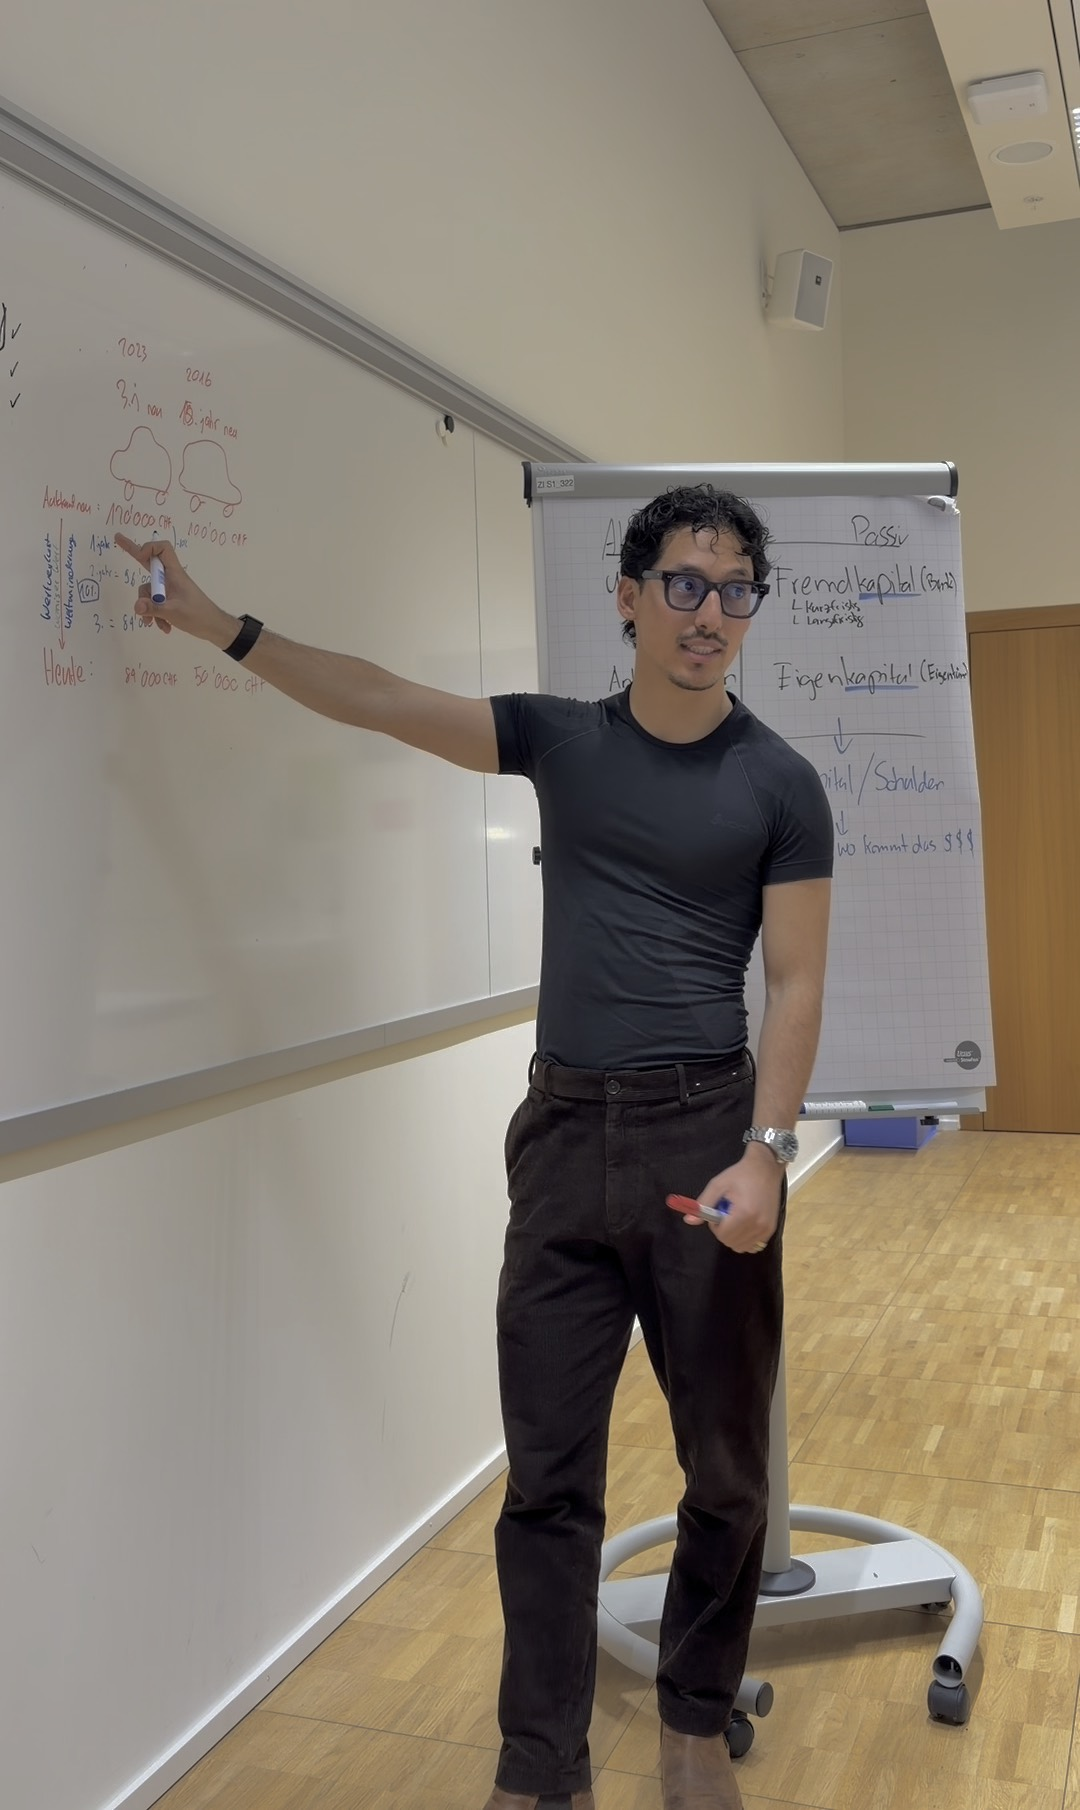
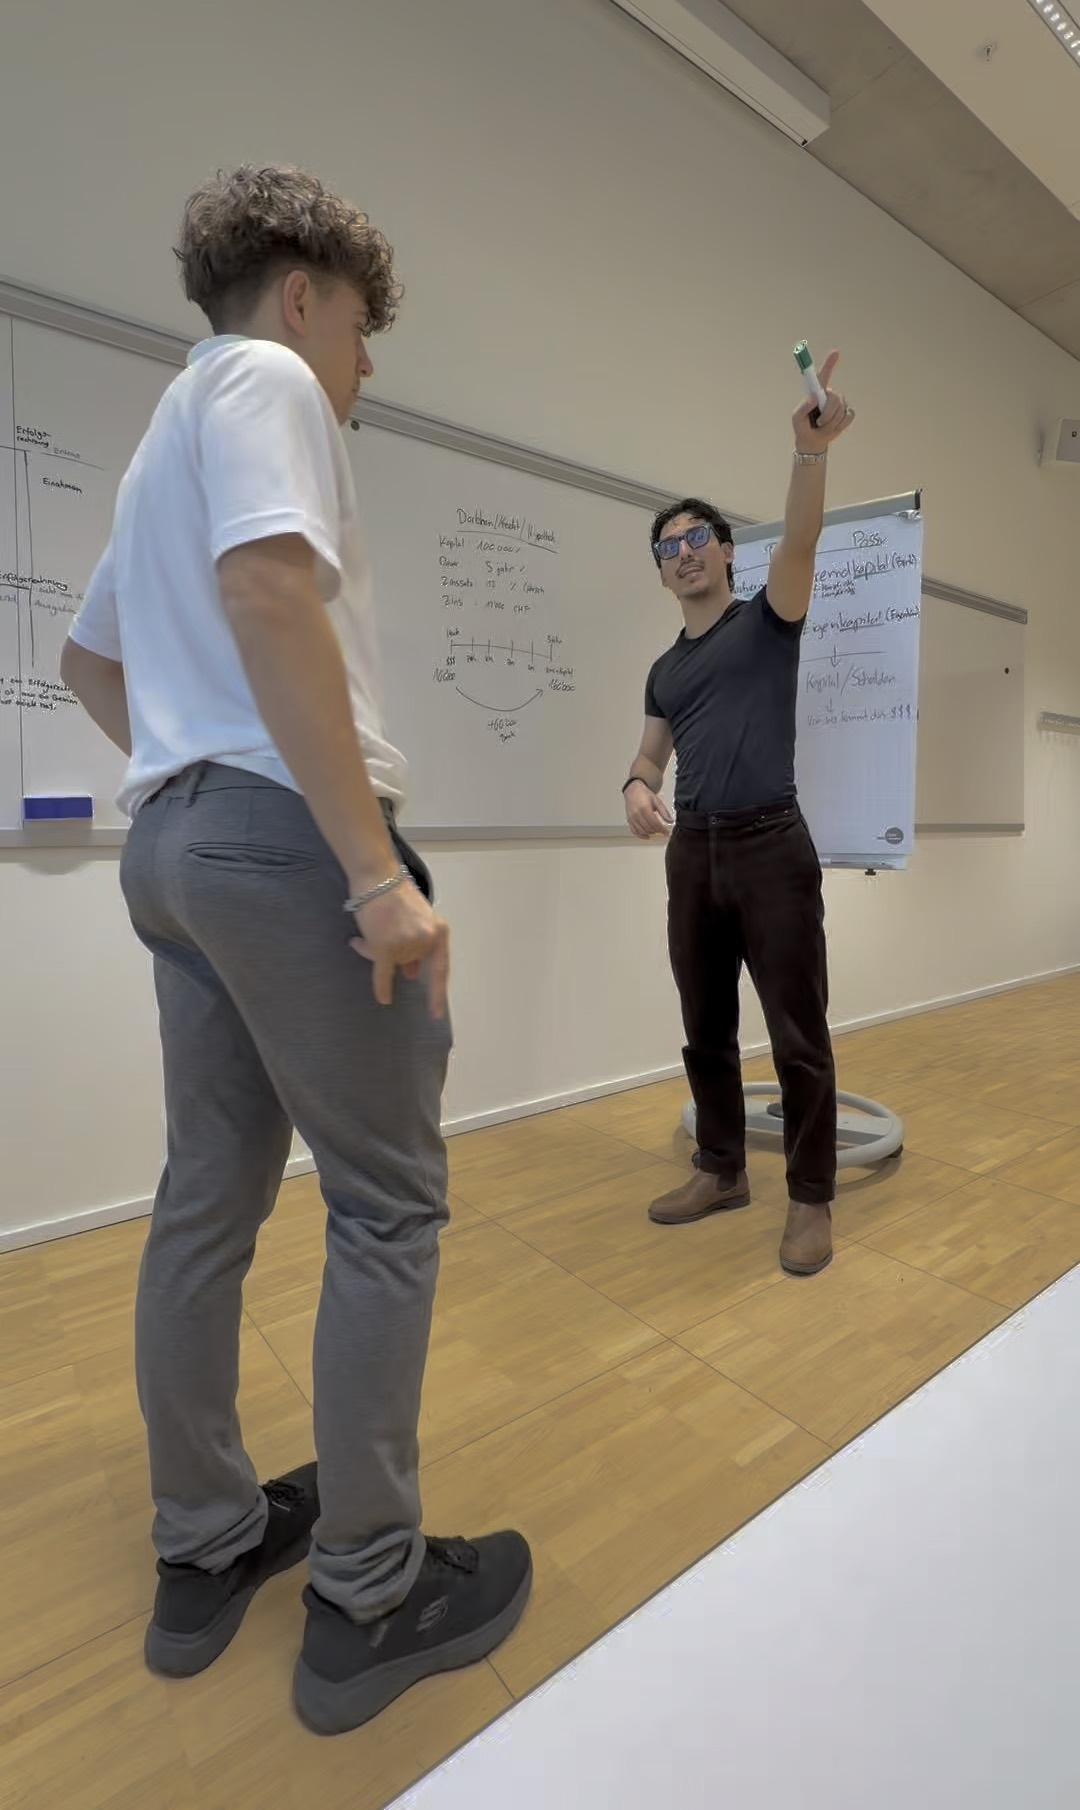
feat: Video startet direkt, Erfolgsgeschichten laufen automatisch

diff --git a/src/components/ui/background-video.tsx b/src/components/ui/background-video.tsx
@@ -6,8 +6,8 @@ import { Button } from "@/components/ui/button";
 import { Icon } from "@/components/ui/icon";
 import { cn } from "@/lib/utils";
 
-// Long enough that the page is settled before the video starts downloading
-const START_DELAY = 3000;
+// Phones wait until the page has settled before the download starts
+const PHONE_START_DELAY = 3000;
 
 type BackgroundVideoProps = {
   src: string;
@@ -17,9 +17,9 @@ type BackgroundVideoProps = {
   className?: string;
 };
 
-// A silent looping video behind a section. It starts only after the page has
-// finished loading, so the poster image below it stays what visitors see first.
-// Visitors who prefer less motion or save data keep the still image.
+// A silent looping video behind a section. It starts by itself once the page
+// has loaded, on top of a poster image showing its first frame. The pause
+// button only appears for keyboard users.
 export function BackgroundVideo({
   src,
   pauseLabel,
@@ -32,17 +32,17 @@ export function BackgroundVideo({
   const [playing, setPlaying] = useState(true);
 
   useEffect(() => {
-    const reduceMotion = window.matchMedia(
-      "(prefers-reduced-motion: reduce)",
-    ).matches;
     const { connection } = navigator as Navigator & {
       connection?: { saveData?: boolean };
     };
-    if (reduceMotion || connection?.saveData) return;
+    if (connection?.saveData) return;
 
     let timer: number | undefined;
     const start = () => {
-      timer = window.setTimeout(() => setActive(true), START_DELAY);
+      const delay = window.matchMedia("(min-width: 1024px)").matches
+        ? 0
+        : PHONE_START_DELAY;
+      timer = window.setTimeout(() => setActive(true), delay);
     };
     if (document.readyState === "complete") start();
     else window.addEventListener("load", start, { once: true });
@@ -87,7 +87,7 @@ export function BackgroundVideo({
       />
       <Button
         variant="onDarkOutline"
-        className="absolute bottom-space-3 left-space-3 size-touch px-0 md:left-space-4"
+        className="pointer-events-none absolute bottom-space-3 left-space-3 size-touch px-0 opacity-0 focus-visible:pointer-events-auto focus-visible:opacity-100 md:left-space-4"
         onClick={toggle}
         aria-label={playing ? pauseLabel : playLabel}
       >

diff --git a/src/components/familien/reviews-strip.tsx b/src/components/familien/reviews-strip.tsx
@@ -3,13 +3,13 @@ import { Section } from "@/components/layout/section";
 import { Button } from "@/components/ui/button";
 import { Card } from "@/components/ui/card";
 import { Icon } from "@/components/ui/icon";
-import { ScrollRow } from "@/components/ui/scroll-row";
+import { Marquee } from "@/components/ui/marquee";
 import { reviews } from "@/content/familien";
 import { site } from "@/lib/site";
 
 export function FamilienReviewsStrip() {
   return (
-    <Section id="bewertungen">
+    <Section id="bewertungen" className="overflow-hidden">
       <div className="mb-space-5 text-center">
         <h2 className="mb-space-2 text-h2 text-text">
           {reviews.strip.headline}
@@ -26,15 +26,11 @@ export function FamilienReviewsStrip() {
         </Button>
       </div>
 
-      <ScrollRow
-        label={reviews.strip.sliderLabel}
-        previousLabel={reviews.strip.previous}
-        nextLabel={reviews.strip.next}
-      >
+      <Marquee label={reviews.strip.sliderLabel}>
         {reviews.strip.items.map((review) => (
           <li
             key={review.quote}
-            className="flex shrink-0 basis-[85%] snap-start sm:basis-[45%] lg:basis-[calc((100%-2*var(--space-4))/3)]"
+            className="flex w-[85vw] shrink-0 sm:w-[45vw] lg:w-[30vw]"
           >
             <Card variant="brand" className="w-full justify-between">
               <blockquote className="text-body text-text">
@@ -44,7 +40,7 @@ export function FamilienReviewsStrip() {
             </Card>
           </li>
         ))}
-      </ScrollRow>
+      </Marquee>
     </Section>
   );
 }

diff --git a/tests/e2e/hero-reviews.spec.ts b/tests/e2e/hero-reviews.spec.ts
@@ -1,16 +1,28 @@
 import { expect, test } from "@playwright/test";
 
-test("hero video starts after load and stays off with reduced motion", async ({
+test("hero video starts by itself, also with reduced motion", async ({
   page,
 }) => {
+  await page.emulateMedia({ reducedMotion: "reduce" });
   await page.goto("/familien");
   await expect(page.locator("#hero video")).toBeAttached({ timeout: 10_000 });
+  await expect(page.locator("#hero video")).toHaveAttribute("loop", "");
+});
 
+test("review row moves by itself and stops on hover", async ({
+  page,
+  hasTouch,
+}) => {
   await page.emulateMedia({ reducedMotion: "reduce" });
-  await page.reload();
-  await page.waitForTimeout(2_000);
-  await expect(page.locator("#hero video")).toHaveCount(0);
-  await expect(page.locator("#hero img")).toBeVisible();
+  await page.goto("/familien");
+  const track = page.locator("#bewertungen .animate-marquee");
+  const state = () =>
+    track.evaluate((element) => getComputedStyle(element).animationPlayState);
+
+  expect(await state()).toBe("running");
+  if (hasTouch) return;
+  await page.locator("#bewertungen [role=group]").hover();
+  expect(await state()).toBe("paused");
 });
 
 test("large reviews change only when clicked", async ({ page }) => {

diff --git a/src/components/ui/marquee.tsx b/src/components/ui/marquee.tsx
@@ -1,0 +1,35 @@
+import { cn } from "@/lib/utils";
+
+type MarqueeProps = {
+  /** Name of the row for screen readers */
+  label: string;
+  /** <li> elements */
+  children: React.ReactNode;
+  className?: string;
+};
+
+// A row that moves sideways in an endless loop, across the full screen width.
+// The content appears twice so the loop has no visible seam. It stops while
+// the mouse is on it, a finger holds it or it has keyboard focus.
+export function Marquee({ label, children, className }: MarqueeProps) {
+  const list = "flex gap-space-4 pr-space-4";
+
+  return (
+    <div
+      role="group"
+      aria-label={label}
+      tabIndex={0}
+      className={cn(
+        "group relative left-1/2 w-screen -translate-x-1/2 overflow-hidden focus-visible:outline-2 focus-visible:-outline-offset-2 focus-visible:outline-focus",
+        className,
+      )}
+    >
+      <div className="flex w-max animate-marquee group-hover:[animation-play-state:paused] group-active:[animation-play-state:paused] group-focus-visible:[animation-play-state:paused]">
+        <ul className={list}>{children}</ul>
+        <ul className={list} aria-hidden="true">
+          {children}
+        </ul>
+      </div>
+    </div>
+  );
+}

diff --git a/src/content/familien.ts b/src/content/familien.ts
@@ -29,10 +29,8 @@ type Review = {
 export const reviews = {
   rating: "5,0 von 5 Sternen, 26 Bewertungen auf Google",
   strip: {
-    headline: "Das schreiben Familien auf Google.",
+    headline: "Erfolgsgeschichten von Familien",
     sliderLabel: "Bewertungen von Familien",
-    previous: "Vorherige Bewertungen zeigen",
-    next: "Weitere Bewertungen zeigen",
     items: [
       {
         quote:

diff --git a/src/app/globals.css b/src/app/globals.css
@@ -74,6 +74,14 @@
 
   --container-page: var(--container-max);
 
+  --animate-marquee: marquee 80s linear infinite;
+
+  @keyframes marquee {
+    to {
+      transform: translateX(-50%);
+    }
+  }
+
   --radius-sm: var(--radius-sm);
   --radius-md: var(--radius-md);
   --radius-lg: var(--radius-lg);

diff --git a/CLAUDE.md b/CLAUDE.md
@@ -344,6 +344,8 @@ Zusätzlich ein einfacher Check, der den Build abbrechen lässt, wenn im Code Em
 - **Schulen und Vereine** bleiben auf der Startseite als gleichwertige Auswahl. Ihre Seiten zeigen «bald verfügbar», bis sie live gehen.
 - **Emanuele:** Die schriftliche Zustimmung der Eltern liegt vor. Nur der Vorname darf genannt werden.
 - **Logo-Intro** auf der Startseite: rund 1.5 Sekunden ist erlaubt (Ausnahme zur 200-ms-Regel). Alle anderen Animationen bleiben dezent.
+- **Hintergrund-Video** auf /familien: läuft bei allen automatisch im Loop, ohne sichtbaren Knopf, auch bei «Bewegung reduzieren».
+- **Erfolgsgeschichten** auf /familien: Die Reihe bewegt sich automatisch im Loop, auch bei «Bewegung reduzieren». Sie stoppt, solange die Maus darauf liegt.
 
 ---
 
